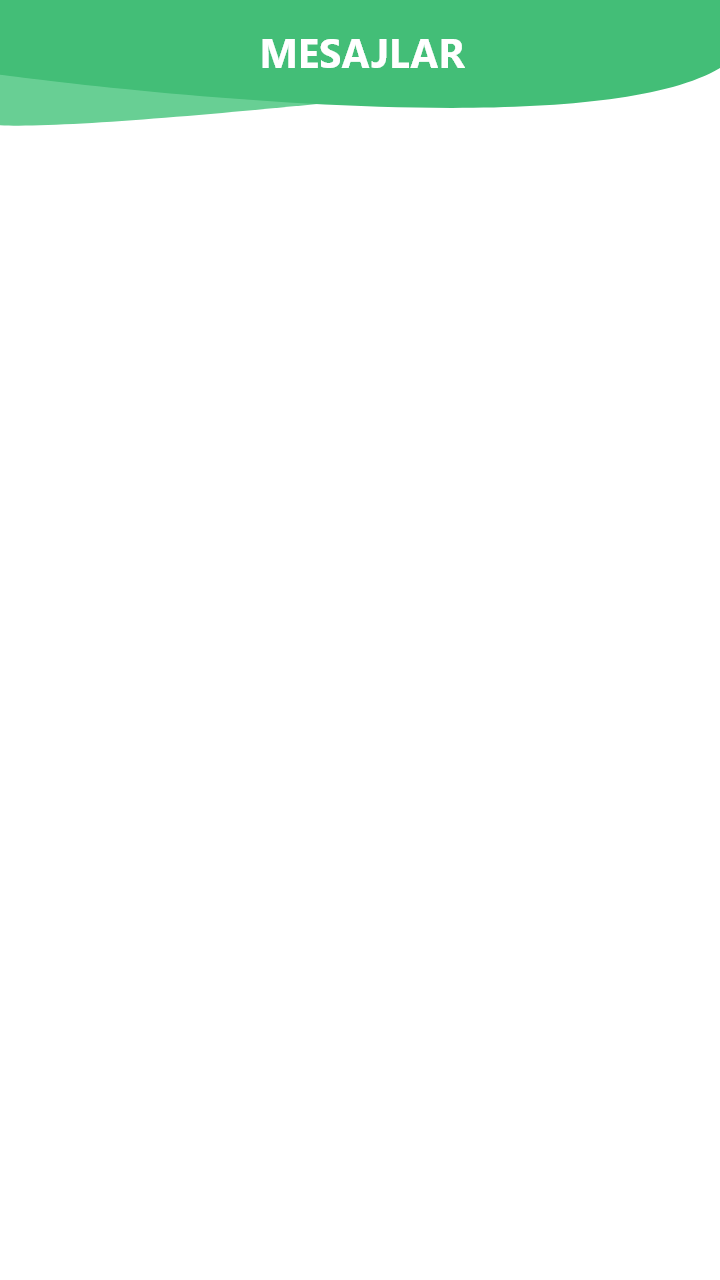
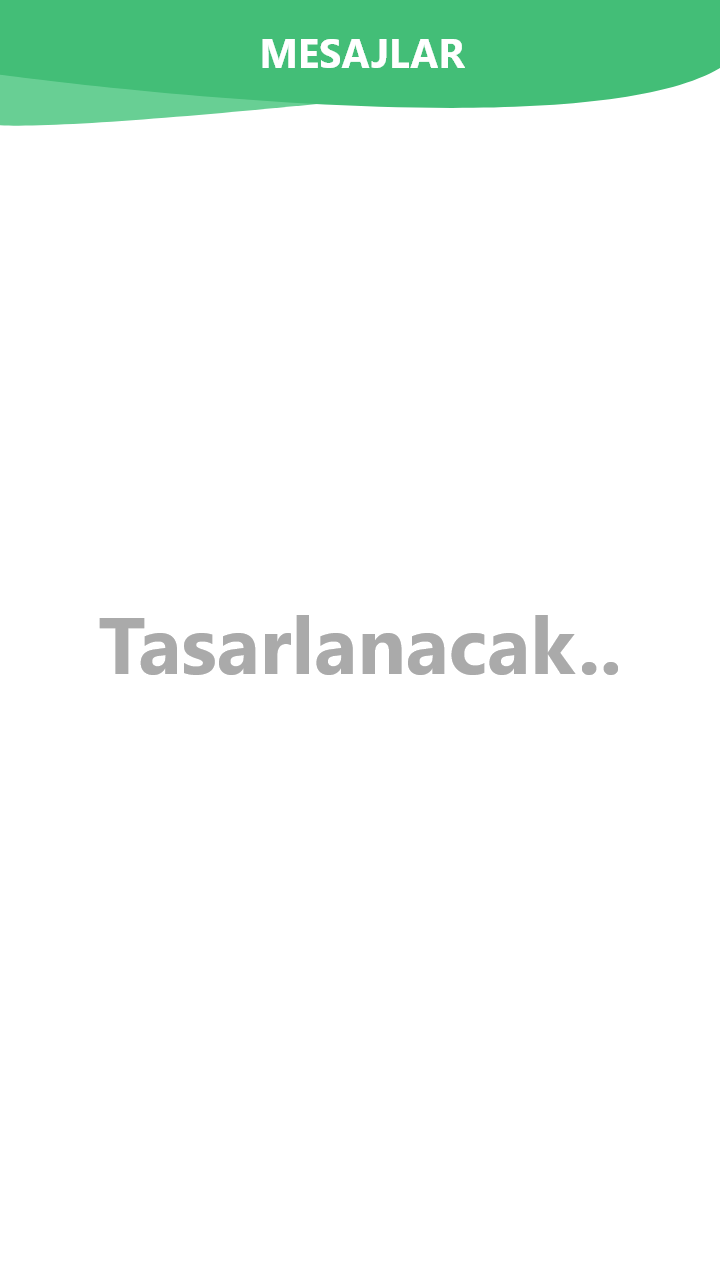
README dosyası oluşturuldu, şuan tasarlanmamış sayfalara 'Tasarlanacak..' yazısı koyuldu

Changed region(s): [[0.1222, 0.4688, 0.8556, 0.5312]]

diff --git a/README.md b/README.md
@@ -1,0 +1,11 @@
+# KOU Bilgi
+
+Kocaeli Üniversitesi'nden bağımsız, öğrenci bilgi sistemi Android uygulaması. Projenin amacı açık kaynaklı, ücretsiz, reklamsız, hızlı bir mobil tecrübe sağlamak. Ayrıca isteyen herkesi birlikte çalışmaya yöneltecek bir açık kaynak ortamı oluşturmak.
+
+## Tasarım Hedefleri
+
+<img src="https://github.com/yunusemregul/koubilgi/blob/master/tasar%C4%B1m-hedefleri/sayfalar/loading.png?raw=true" width="33%"> <img src="https://github.com/yunusemregul/koubilgi/blob/master/tasar%C4%B1m-hedefleri/sayfalar/giris.png?raw=true" width="33%"> <img src="https://github.com/yunusemregul/koubilgi/blob/master/tasar%C4%B1m-hedefleri/sayfalar/ana_menu.png?raw=true" width="33%">
+<img src="https://github.com/yunusemregul/koubilgi/blob/master/tasar%C4%B1m-hedefleri/sayfalar/ana_menu___scrolling.png?raw=true" width="33%"> <img src="https://github.com/yunusemregul/koubilgi/blob/master/tasar%C4%B1m-hedefleri/sayfalar/not_bilgileri.png?raw=true" width="33%"> <img src="https://github.com/yunusemregul/koubilgi/blob/master/tasar%C4%B1m-hedefleri/sayfalar/ders_programi.png?raw=true" width="33%">
+<img src="https://github.com/yunusemregul/koubilgi/blob/master/tasar%C4%B1m-hedefleri/sayfalar/genel_durum.png?raw=true" width="33%"> <img src="https://github.com/yunusemregul/koubilgi/blob/master/tasar%C4%B1m-hedefleri/sayfalar/harc_durumu.png?raw=true" width="33%"> <img src="https://github.com/yunusemregul/koubilgi/blob/master/tasar%C4%B1m-hedefleri/sayfalar/sinav_programi.png?raw=true" width="33%">
+<img src="https://github.com/yunusemregul/koubilgi/blob/master/tasar%C4%B1m-hedefleri/sayfalar/ders_listesi.png?raw=true" width="33%"> <img src="https://github.com/yunusemregul/koubilgi/blob/master/tasar%C4%B1m-hedefleri/sayfalar/yemekhane.png?raw=true" width="33%"> <img src="https://github.com/yunusemregul/koubilgi/blob/master/tasar%C4%B1m-hedefleri/sayfalar/ayarlar.png?raw=true" width="33%"> 
+<img src="https://github.com/yunusemregul/koubilgi/blob/master/tasar%C4%B1m-hedefleri/sayfalar/mesajlar.png?raw=true" width="33%"> <img src="https://github.com/yunusemregul/koubilgi/blob/master/tasar%C4%B1m-hedefleri/popuplar/basarili.png?raw=true" width="33%"> <img src="https://github.com/yunusemregul/koubilgi/blob/master/tasar%C4%B1m-hedefleri/popuplar/hata.png?raw=true" width="33%"> 
